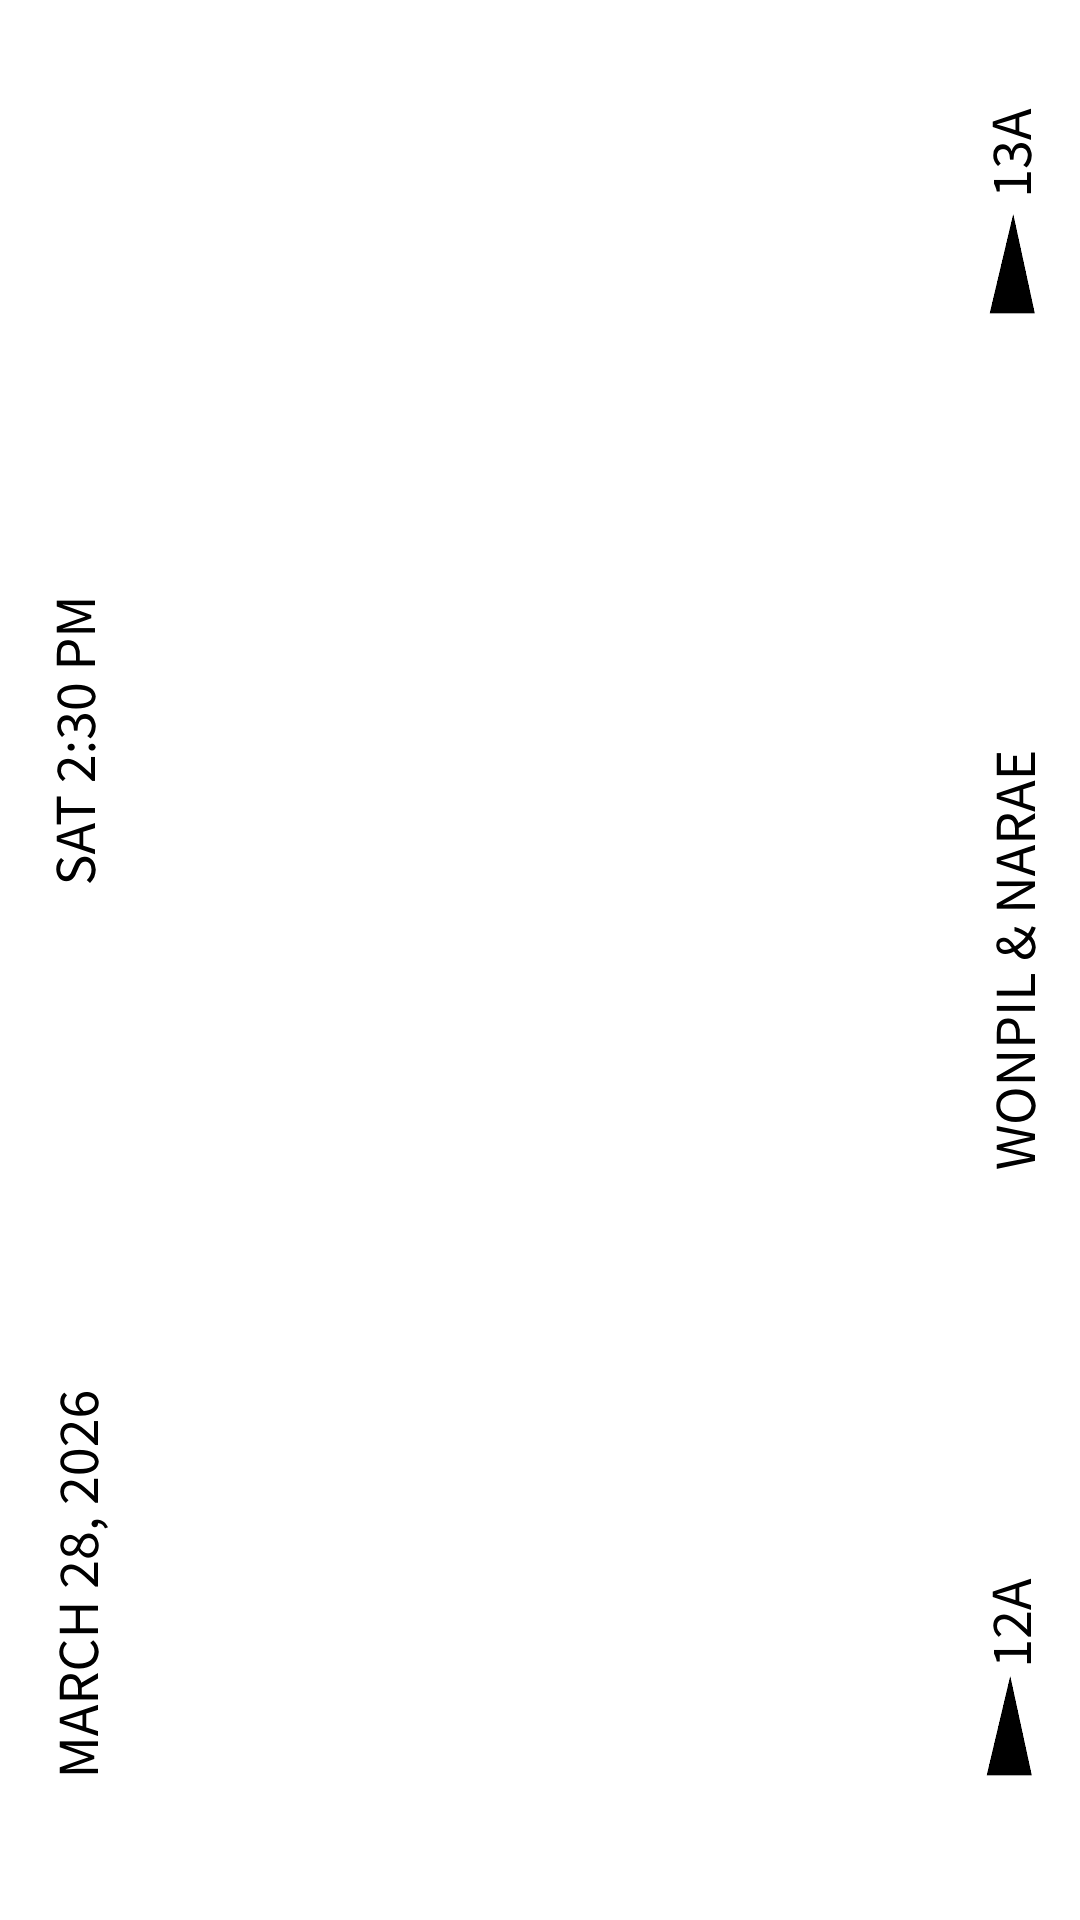
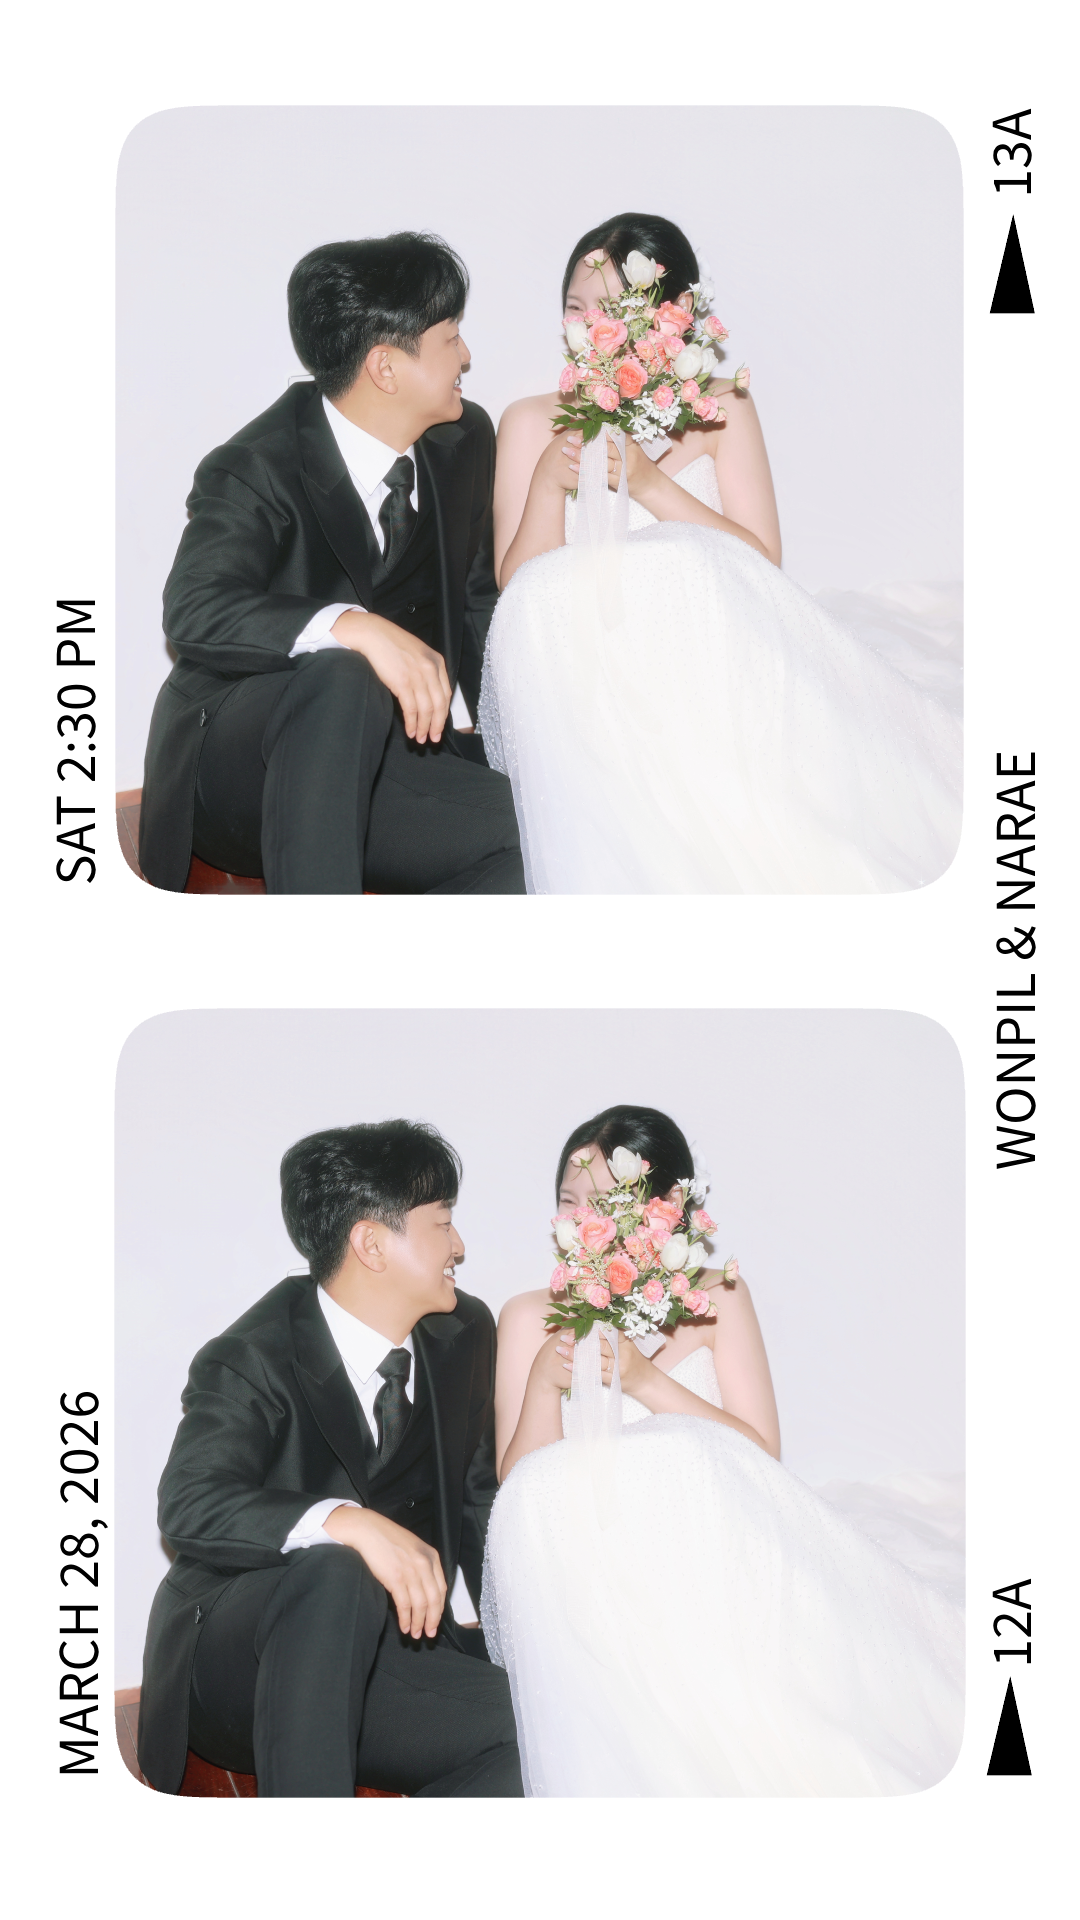
사진 수정

diff --git a/src/components/InvitationShare.tsx b/src/components/InvitationShare.tsx
@@ -39,8 +39,12 @@ const InvitationShare = () => {
 
   return (
     <>
-      <div className="h-[600px] bg-gradient-to-b from-[#FFFFFF] to-[#282828] text-black mt-10">
-        image
+      <div className="bg-gradient-to-b from-[#FFFFFF] to-[#282828] text-black mt-10">
+        <img
+          src="/assets/images/panorama.png"
+          alt="웨딩필름이미지"
+          className="mx-auto"
+        />
       </div>
       <div className="h-40 bg-[#282828] text-white flex flex-col items-center justify-center">
         <p className="mb-8">당신은 내가 더 좋은 사람이고 싶게 만들어요.</p>

diff --git a/src/components/MainFilm.tsx b/src/components/MainFilm.tsx
@@ -2,10 +2,10 @@ const MainFilm = () => {
   return (
     <>
       <img
-        src="/assets/images/film2.png"
+        src="/assets/images/film.png"
         alt="웨딩필름이미지"
         className="mx-auto max-w-[340px]"
-      ></img>
+      />
     </>
   );
 };
